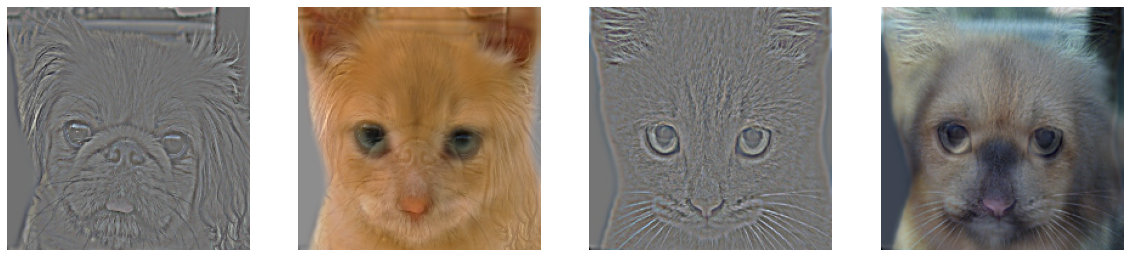
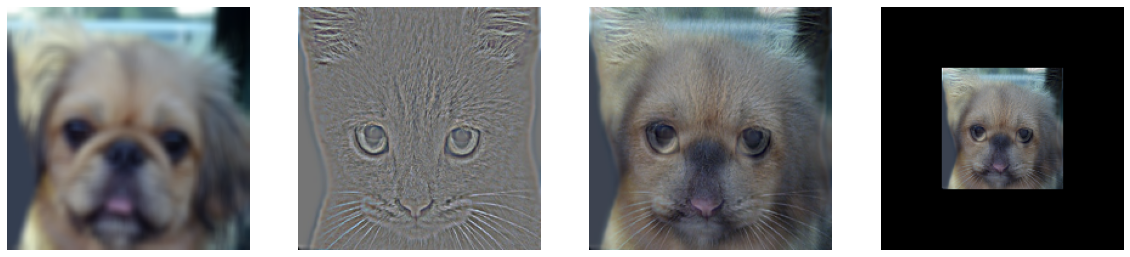
modify hybrid imgs

diff --git a/image_filtering/src/main.py b/image_filtering/src/main.py
@@ -10,6 +10,7 @@ from utils import (
     gray_filter,
     thresholding_filter,
     highpass_filter,
+    view_from_far,
 )
 
 #%%
@@ -39,16 +40,16 @@ if __name__ == "__main__":
 
     detail_ext = [highpass_filter(img, gaussian_filter(img, 7, 30.0)) for img in imgs]
     hybrid1 = [
-        array_to_img(detail_ext[0]),
-        array_to_img(gaussian_filter(img1, 7, 30) + detail_ext[0]),
+        array_to_img(gaussian_filter(img0, 7, 30)),
         array_to_img(detail_ext[1]),
         array_to_img(gaussian_filter(img0, 7, 30) + detail_ext[1]),
+        array_to_img(view_from_far(gaussian_filter(img0, 7, 30) + detail_ext[1])),
     ]
     hybrid2 = [
-        array_to_img(detail_ext[2]),
-        array_to_img(gaussian_filter(img3, 7, 30) + detail_ext[2]),
+        array_to_img(gaussian_filter(img2, 7, 30)),
         array_to_img(detail_ext[3]),
         array_to_img(gaussian_filter(img2, 7, 30) + detail_ext[3]),
+        array_to_img(view_from_far(gaussian_filter(img2, 7, 30) + detail_ext[3])),
     ]
 
     result = [
@@ -59,9 +60,9 @@ if __name__ == "__main__":
         imgs_thresh,
         img0_gaussian,
         img1_gaussian,
-        hybrid1,
         img2_gaussian,
         img3_gaussian,
+        hybrid1,
         hybrid2,
     ]
 
@@ -71,3 +72,5 @@ if __name__ == "__main__":
         else:
             cmap = None
         draw_outputs(result[idx], cmap)
+
+# %%

diff --git a/image_filtering/src/utils/draw_utils.py b/image_filtering/src/utils/draw_utils.py
@@ -30,3 +30,30 @@ def draw_outputs(imgs: PIL.Image.Image, cmap: str or None) -> None:
         plt.axis("off")
         plt.imshow(imgs[i], cmap=cmap)
     plt.show()
+
+
+def view_from_far(img: tf.Tensor, ratio: float = 0.5) -> tf.Tensor:
+    """
+    view img from far
+
+    Args:
+        img (tf.Tensor): img
+        ratio (float, optional): ratio to reduce img
+
+    Returns:
+        tf.Tensor: reduced size img
+    """
+    img_size = tf.shape(img)[:2]
+    far_img_size = tf.cast(tf.cast(img_size, dtype=tf.float32) * ratio, dtype=tf.int32)
+    far_img = tf.image.resize(img, far_img_size)
+    padding_shape = tf.cast(
+        [
+            (img_size - far_img_size) / 2,
+            (img_size - far_img_size) / 2,
+            tf.constant([0.0, 0.0], dtype=tf.float64),
+        ],
+        tf.int32,
+    )
+    far_img = tf.pad(far_img, padding_shape)
+
+    return far_img

diff --git a/image_filtering/src/utils/data_utils.py b/image_filtering/src/utils/data_utils.py
@@ -16,6 +16,7 @@ def load_data() -> List:
     cwd = Path(os.getcwd())
     ex_dir = f"{cwd}/ex"
     img_lst = os.listdir(ex_dir)
+    img_lst = [img for img in img_lst if r".png" in img]
 
     imgs = []
     for i in range(len(img_lst)):

diff --git a/image_filtering/src/utils/__init__.py b/image_filtering/src/utils/__init__.py
@@ -5,6 +5,7 @@ from .data_utils import (
 from .draw_utils import (
     array_to_img,
     draw_outputs,
+    view_from_far,
 )
 from .filter_utils import(
     gray_filter,
